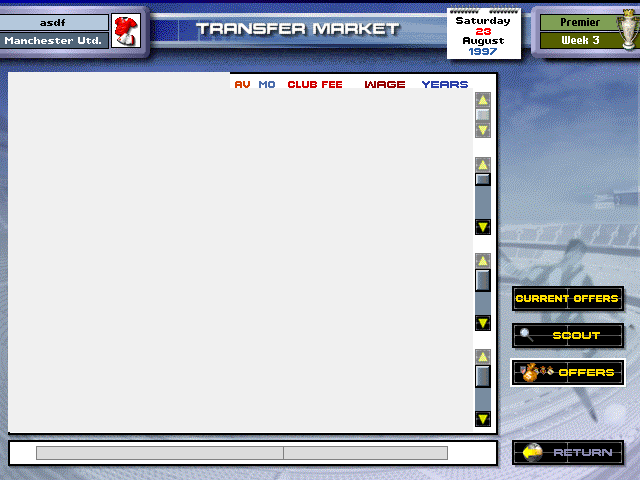
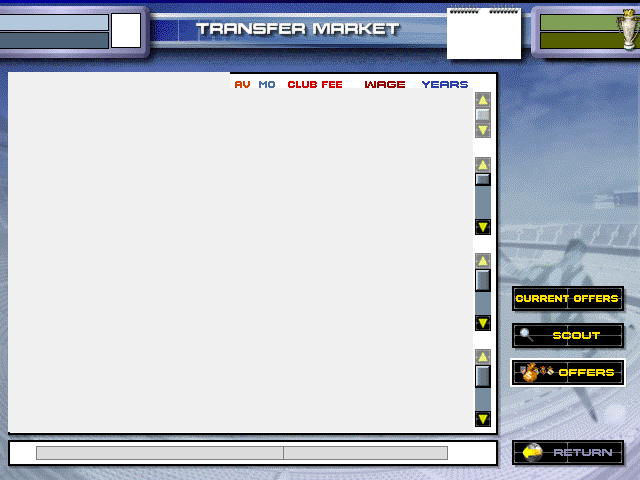
TRANSFER MARKET stale-career fix: blank the baked barra text, draw the live career
Charter #1 (audit $C2 stale-career bleed): frame 097's chrome baked the RE
walkthrough's own career text ("asdf" / Manchester Utd. / Saturday 23 August
1997 / Premier Week 3 + Man Utd kit), so EVERY app career showed that identity
on the TRANSFER MARKET (parity run app/33). Not state corruption -- static art.

- bake tool: blank the 9 career-text interiors (plaque bands, kit box, sheet
  date lines, right-plaque bands) at their measured flat fills; borders/spiral/
  trophy stay 1:1; live-text anchors written into transfer_chrome.json
- TransferScreen: draw the live manager/club/kit/date/league/week at the
  frame-measured ink baselines (PMChrome font combos); setup() takes league +
  club_id
- Main: pass manager_name/league_name/club_id (manager was hardwired "")

Verified live: PM98_SCREENS_SHOT boot -> transfer.png shows Manager/Arsenal/
4 October 1997/Premier/Week 9; test_transfer_screen ALL PASS.

Changed region(s): [[0.0, 0.0312, 0.2188, 0.0938], [0.7188, 0.0312, 0.8125, 0.125], [0.875, 0.0312, 0.9375, 0.0938]]

diff --git a/tools/re/build_transfer_chrome_from_frames.py b/tools/re/build_transfer_chrome_from_frames.py
@@ -33,6 +33,7 @@ gap), so we clear the body to that exact colour. The scene redraws the band
 headers + filled rows over it. The column-header strip (AV..YEARS at x230..470)
 and everything outside the body is kept 1:1.
 """
+
 from __future__ import annotations
 
 import json
@@ -58,14 +59,36 @@ PANEL_FILL = (240, 240, 240)
 # A: the KEEPER band-header text on the column-header row (x8..230); keeps the
 #    AV/MO/CLUB FEE/WAGE/YEARS labels at x>=230. B: the whole list body below the
 #    column headers down to the panel's bottom border.
-BLANK_A = (8, 72, 230, 88)     # x0,y0,x1,y1
+BLANK_A = (8, 72, 230, 88)  # x0,y0,x1,y1
 # right edge stops at 473 so the frame's list SCROLLBAR (gold up/down arrows +
 # thumb at x479..486, y96..422) survives as inert baked art — the [3,5,5,5]=18
 # capped list always fits the panel, so it never actually scrolls.
 BLANK_B = (8, 88, 473, 432)
 
 # ---- the [+] row expand-box sprite ----------------------------------------
-PLUS_BOX = (5, 91, 32, 105)    # x0,y0,x1,y1 -> 27x14 cut from the frame
+PLUS_BOX = (5, 91, 32, 105)  # x0,y0,x1,y1 -> 27x14 cut from the frame
+
+# ---- barra live-text blanks (the stale-career fix, audit §C2) --------------
+# Frame 097's barra bakes the WALKTHROUGH career's text ("asdf" / Manchester
+# Utd. / Saturday 23 August 1997 / Premier Week 3), so every app career showed
+# that stale identity (parity run app/33). Blank ONLY the text interiors (band
+# fills measured flat) + the crest box; TransferScreen redraws the live values
+# at the ink anchors measured off this same frame. Borders/bevels/spiral/
+# trophy stay 1:1.
+MGR_BAND_FILL = (180, 200, 220)
+CLUB_BAND_FILL = (80, 100, 120)
+RP_TOP_FILL = (127, 159, 85)
+RP_BOT_FILL = (85, 95, 0)
+WHITE = (255, 255, 255)
+BLANK_MGR = (0, 15, 108, 30)  # "asdf" band interior (borders y14/y30 stay)
+BLANK_CLUB = (0, 33, 108, 48)  # "Manchester Utd." band interior
+BLANK_CREST = (112, 14, 140, 47)  # kit-sprite box interior (white)
+BLANK_SHEET_WD = (447, 17, 521, 26)  # "Saturday"
+BLANK_SHEET_DAY = (447, 28, 521, 35)  # "23"
+BLANK_SHEET_MON = (447, 37, 521, 46)  # "August"
+BLANK_SHEET_YR = (447, 48, 521, 55)  # "1997"
+BLANK_RP_TOP = (541, 15, 616, 30)  # "Premier" (trophy pixels start x616)
+BLANK_RP_BOT = (541, 33, 624, 48)  # "Week 3" (trophy pixels start x624)
 
 
 def fill(a: np.ndarray, rgb, x0: int, y0: int, x1: int, y1: int) -> None:
@@ -78,7 +101,7 @@ def main() -> int:
         return 1
     OUT_DIR.mkdir(parents=True, exist_ok=True)
 
-    im = Image.open(FRAME).convert("RGB").crop((0, 0, W, H))   # 641 -> 640
+    im = Image.open(FRAME).convert("RGB").crop((0, 0, W, H))  # 641 -> 640
     a = np.array(im)
 
     def C(x: int, y: int):
@@ -86,12 +109,12 @@ def main() -> int:
 
     # inks sampled BEFORE blanking (measured off known glyph strokes on frame 097).
     samples = {
-        "band_navy": [0, 0, 128],          # KEEPER/DEFENDER/... header text C(50,81)
-        "av_orange": [212, 63, 0],         # AV orange-red (dom-ink C(236,96))
-        "mo_blue": [75, 109, 172],         # MO value blue (dom-ink C(261,96))
-        "fee_red": [210, 0, 0],            # CLUB FEE bright red (dom-ink)
-        "wage_darkred": [150, 0, 0],       # WAGE dark maroon (dom-ink C(367,95))
-        "years_navy": [42, 63, 170],       # YEARS / LEFT cell digit
+        "band_navy": [0, 0, 128],  # KEEPER/DEFENDER/... header text C(50,81)
+        "av_orange": [212, 63, 0],  # AV orange-red (dom-ink C(236,96))
+        "mo_blue": [75, 109, 172],  # MO value blue (dom-ink C(261,96))
+        "fee_red": [210, 0, 0],  # CLUB FEE bright red (dom-ink)
+        "wage_darkred": [150, 0, 0],  # WAGE dark maroon (dom-ink C(367,95))
+        "years_navy": [42, 63, 170],  # YEARS / LEFT cell digit
         "years_final_yellow": [255, 255, 90],  # LEFT==1 cell highlight
         "name_black": [0, 0, 0],
         "row_sep": [176, 176, 176],
@@ -106,36 +129,59 @@ def main() -> int:
     fill(a, PANEL_FILL, *BLANK_A)
     fill(a, PANEL_FILL, *BLANK_B)
 
+    # blank the barra's career-specific text (the stale "asdf"/Man Utd fix).
+    fill(a, MGR_BAND_FILL, *BLANK_MGR)
+    fill(a, CLUB_BAND_FILL, *BLANK_CLUB)
+    fill(a, WHITE, *BLANK_CREST)
+    for r in (BLANK_SHEET_WD, BLANK_SHEET_DAY, BLANK_SHEET_MON, BLANK_SHEET_YR):
+        fill(a, WHITE, *r)
+    fill(a, RP_TOP_FILL, *BLANK_RP_TOP)
+    fill(a, RP_BOT_FILL, *BLANK_RP_BOT)
+
     Image.fromarray(a).save(OUT_PNG)
 
     spec = {
         "binding_frame": FRAME.name,
         "note": "TRANSFER MARKET (FICHAR); list body redrawn by TransferScreen.gd "
-                "from Career.market() rows. AV=CA (real); CLUB FEE/WAGE = the "
-                "valuation model (accepted approximation, TransferMarket.gd); "
-                "MO + YEARS|LEFT + nationality flag = honest gaps (morale is an "
-                "un-RE'd dynamic save value per audit B7; buyable-player contract "
-                "years + flagCode are not in the market row).",
+        "from Career.market() rows. AV=CA (real); CLUB FEE/WAGE = the "
+        "valuation model (accepted approximation, TransferMarket.gd); "
+        "MO + YEARS|LEFT + nationality flag = honest gaps (morale is an "
+        "un-RE'd dynamic save value per audit B7; buyable-player contract "
+        "years + flagCode are not in the market row).",
         "size": [W, H],
         "samples": samples,
         "anchors": {
             # band header text (navy), ink-left x + header-row-top y per band
             "band_x": 50,
             "bands": [
-                {"key": "GK", "label": "KEEPER", "hdr_y": 72, "cap": 3,
-                 "slot_y": [92, 108, 124]},
-                {"key": "DF", "label": "DEFENDER", "hdr_y": 140, "cap": 5,
-                 "slot_y": [156, 172, 188, 204, 220]},
-                {"key": "MF", "label": "MIDFIELDER", "hdr_y": 236, "cap": 5,
-                 "slot_y": [252, 268, 284, 300, 316]},
-                {"key": "FW", "label": "FORWARD", "hdr_y": 332, "cap": 5,
-                 "slot_y": [348, 364, 380, 396, 412]},
+                {"key": "GK", "label": "KEEPER", "hdr_y": 72, "cap": 3, "slot_y": [92, 108, 124]},
+                {
+                    "key": "DF",
+                    "label": "DEFENDER",
+                    "hdr_y": 140,
+                    "cap": 5,
+                    "slot_y": [156, 172, 188, 204, 220],
+                },
+                {
+                    "key": "MF",
+                    "label": "MIDFIELDER",
+                    "hdr_y": 236,
+                    "cap": 5,
+                    "slot_y": [252, 268, 284, 300, 316],
+                },
+                {
+                    "key": "FW",
+                    "label": "FORWARD",
+                    "hdr_y": 332,
+                    "cap": 5,
+                    "slot_y": [348, 364, 380, 396, 412],
+                },
             ],
             "row_h": 16,
             "row_content_h": 13,
-            "plus_xy": [5, 91],            # blit plus.png here (+ slot row-top delta)
-            "flag_x": 34,                  # nat. flag left (if flagCode present)
-            "name_x": 60,                  # name ink-left
+            "plus_xy": [5, 91],  # blit plus.png here (+ slot row-top delta)
+            "flag_x": 34,  # nat. flag left (if flagCode present)
+            "name_x": 60,  # name ink-left
             "stars_x": 156,
             "av_right": 250,
             "mo_center": 267,
@@ -143,12 +189,32 @@ def main() -> int:
             "wage_right": 404,
             "years1_center": 432,
             "years2_center": 457,
-            "row_left": 8, "row_right": 495,
+            "row_left": 8,
+            "row_right": 495,
             # nav button hit rects (baked art; scene only hit-tests)
             "btn_current": [496, 287, 128, 21],
             "btn_scout": [496, 324, 128, 21],
             "btn_offers": [496, 361, 128, 21],
             "btn_return": [496, 441, 128, 21],
+            # live barra text anchors (ink centers/rows measured off frame 097;
+            # the text interiors are blanked so the scene draws the LIVE career)
+            "barra": {
+                "mgr_cx": 52,
+                "mgr_y": 15,
+                "mgr_band": list(BLANK_MGR),
+                "club_cx": 52,
+                "club_y": 33,
+                "club_band": list(BLANK_CLUB),
+                "crest_box": list(BLANK_CREST),
+                "sheet_cx": 483,
+                "sheet_wd_y": 17,
+                "sheet_day_y": 28,
+                "sheet_mon_y": 37,
+                "sheet_yr_y": 48,
+                "band_cx": 580,
+                "band1_y": 15,
+                "band2_y": 33,
+            },
         },
     }
     OUT_JSON.write_text(json.dumps(spec, indent=2))
